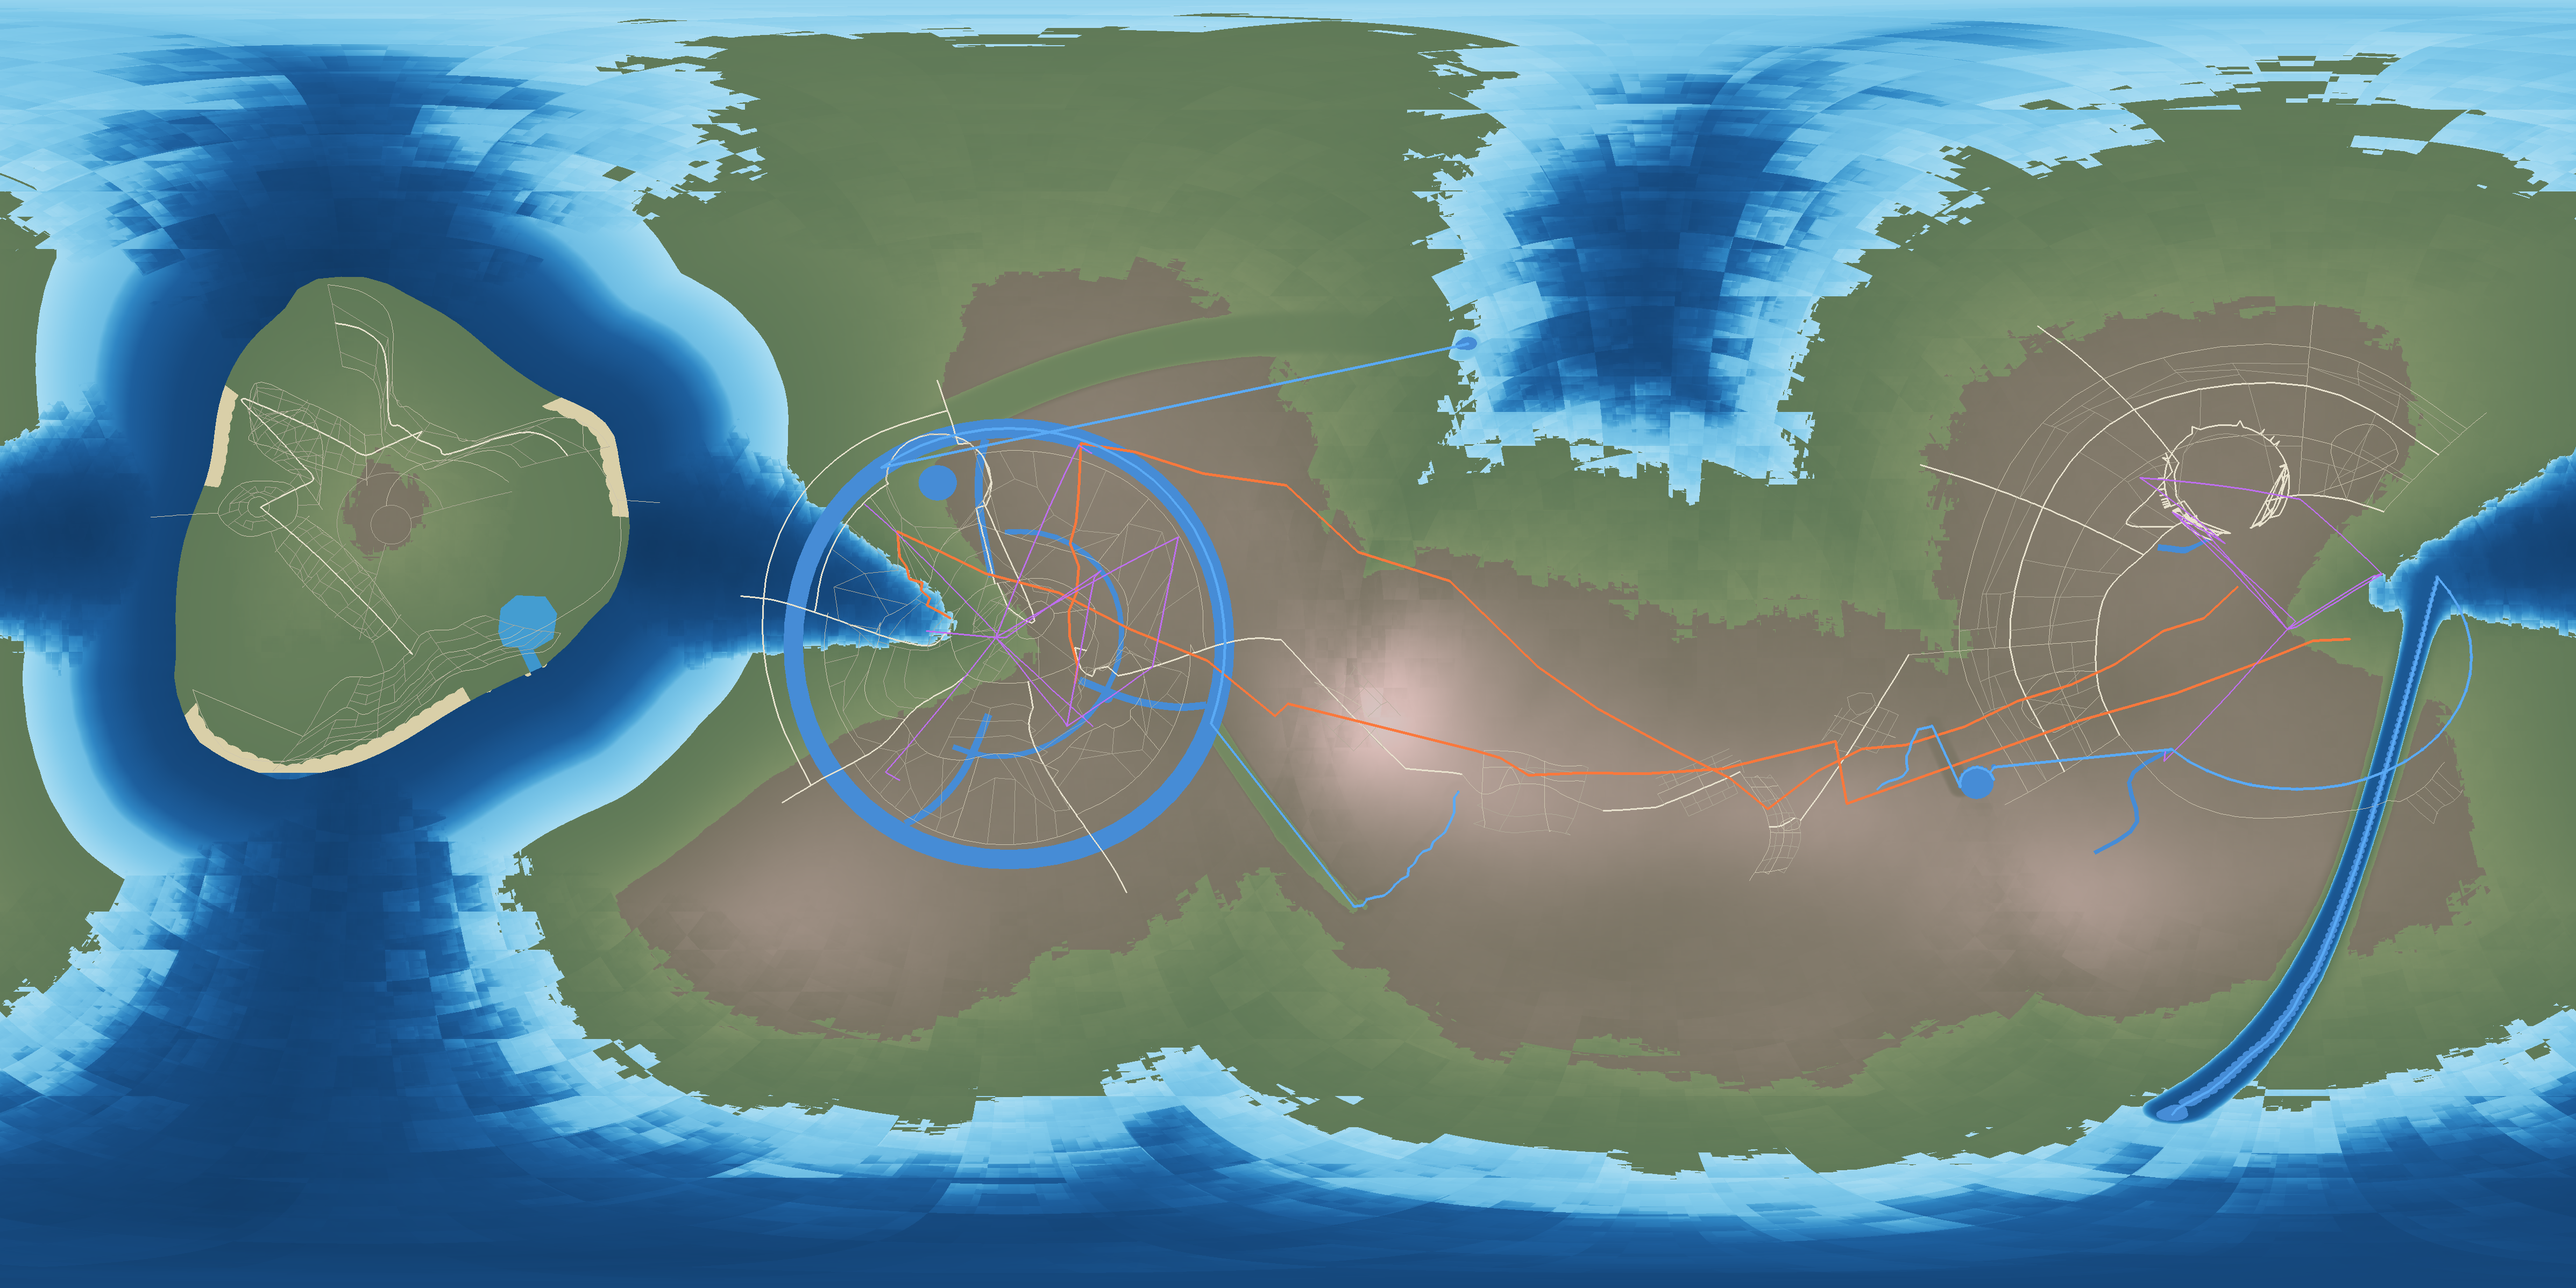
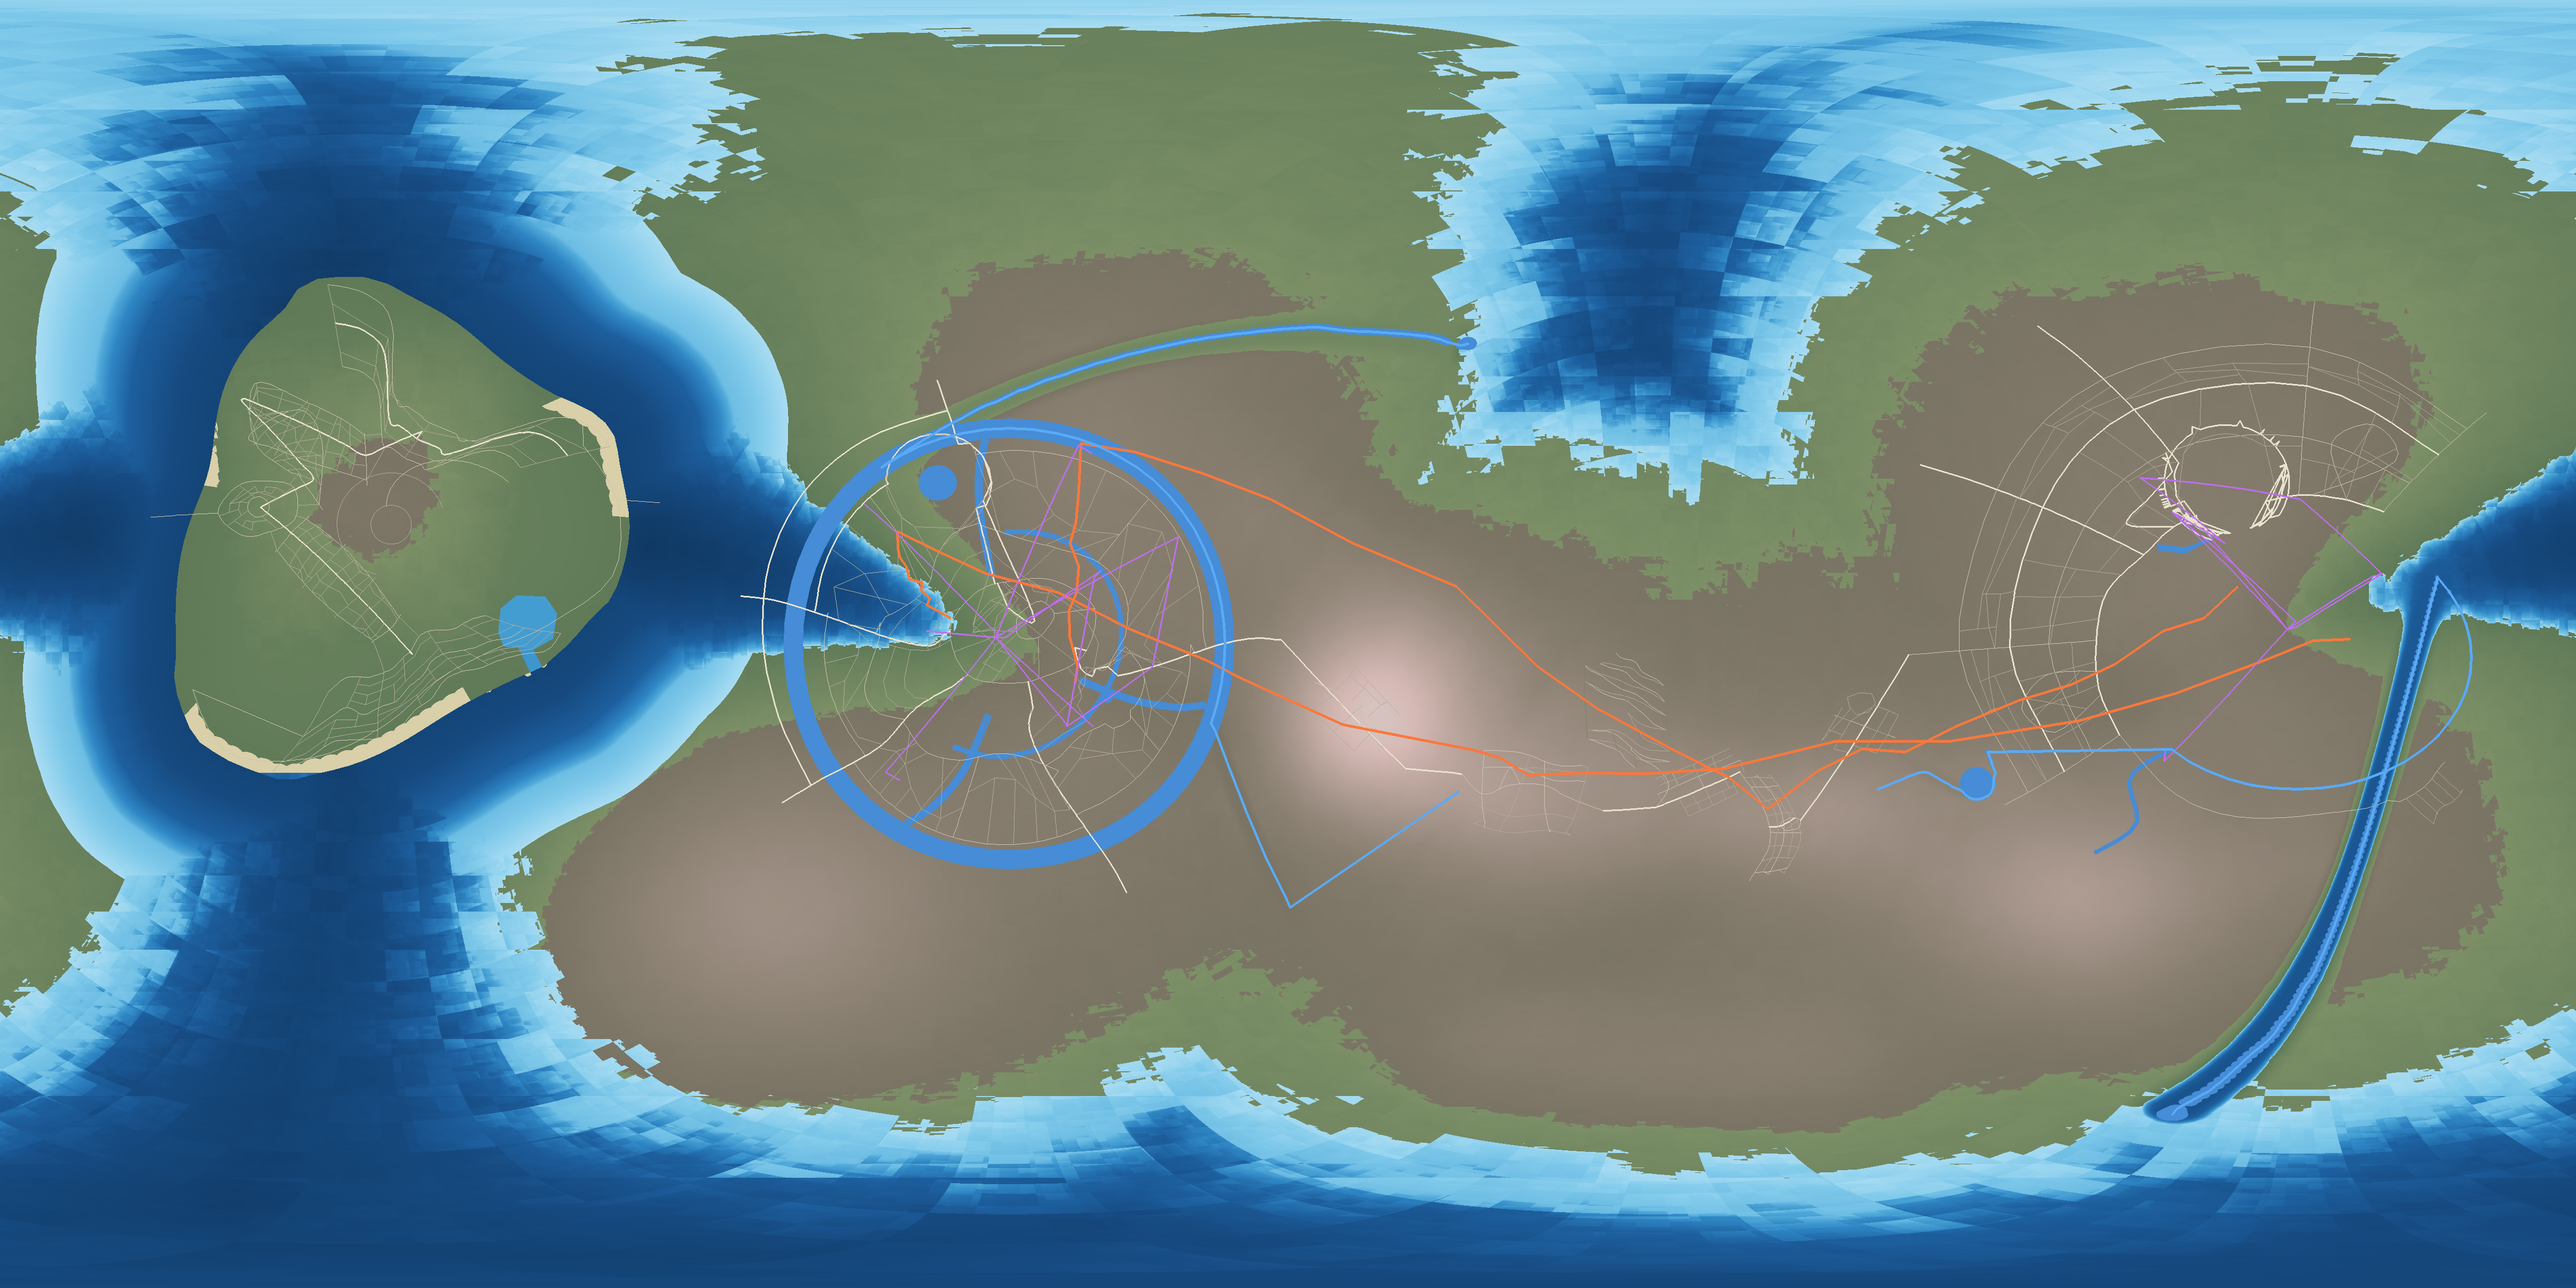
map: M6 の斜面住宅地を反映し、外洋の海底を戻す
- レビュー区画 M6 に、等高線に沿う段の通り 6 本・坂 7 本・階段 11 本・
  取り付き 1 本と、1〜2 階建ての住宅 21 棟が入った(mc3 の街区 25 → 43)
- 海に分類された面の 59.7%(全球の 14.7%、中央値 +10.1m)が海面より上に
  残っていたため、地図では外洋が陸に描かれていた。海底の切り下げを戻して
  0.0% にした。道路の水没は 2.7%(202/7,522 点)のまま変わらない
- 凡例: いちばん暗い道路は歩行者の路地・階段で、車道ではない

地図と世界の水陸判定の一致 99.62%(16,467 点の実測)。
地区の中心が水になるのは mc8 のみで、これは公開中の地図と同じ(世界側の既知の問題)。

Claude-Session: https://claude.ai/code/session_01FKBqKgxSo6VwEWsvp5nNNg

diff --git a/README.md b/README.md
@@ -29,7 +29,7 @@ python3 -m http.server 8080
 
 - 地形(標高で着色)・海・湖・運河
 - 河川(中心線を強調)
-- 道路(幹線 / 補助幹線 / 生活道路で明度を分けている)
+- 道路(幹線 / 補助幹線 / 生活道路で明度を分けている。いちばん暗いものは**歩行者の路地・階段**で車道ではない)
 - 鉄道(橙)・地下鉄(紫)
 - 点要素(切替可能): 都市 / 地区 / 山 / 港 / 鉄道駅 / 地下鉄駅 / ランドマーク / 河川の源流と河口 / ヨットハーバー(仮設)
 
